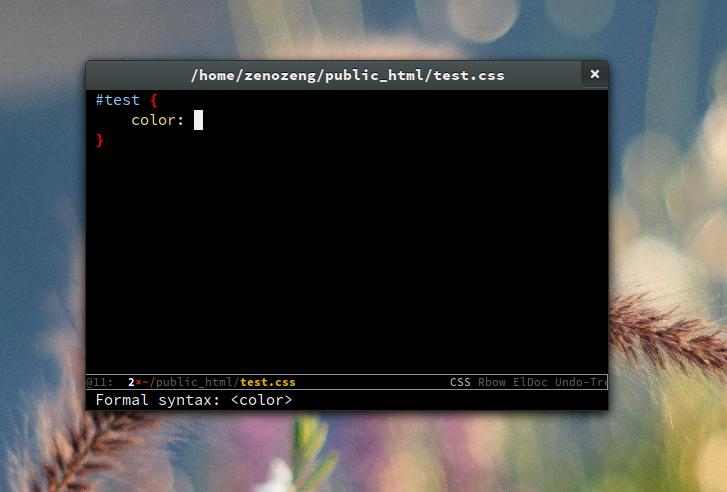
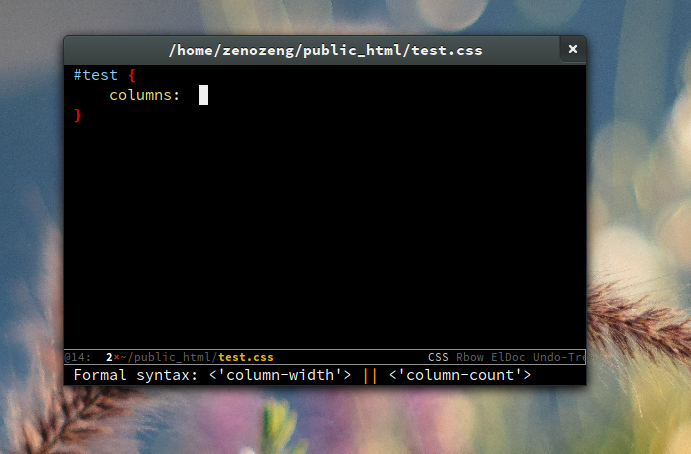
remove ss1.png, rename ss2.png -> ss1.png

diff --git a/README.md b/README.md
@@ -12,8 +12,6 @@ Eldoc-mode is a MinorMode which shows you, in the echo area, the argument list o
 
 ![Alt text](ss1.png)
 
-![Alt text](ss2.png)
-
 ## Usage
 
 Use https://github.com/dimitri/el-get for an easy install, or put the css-eldoc somewhere in your load-path.
